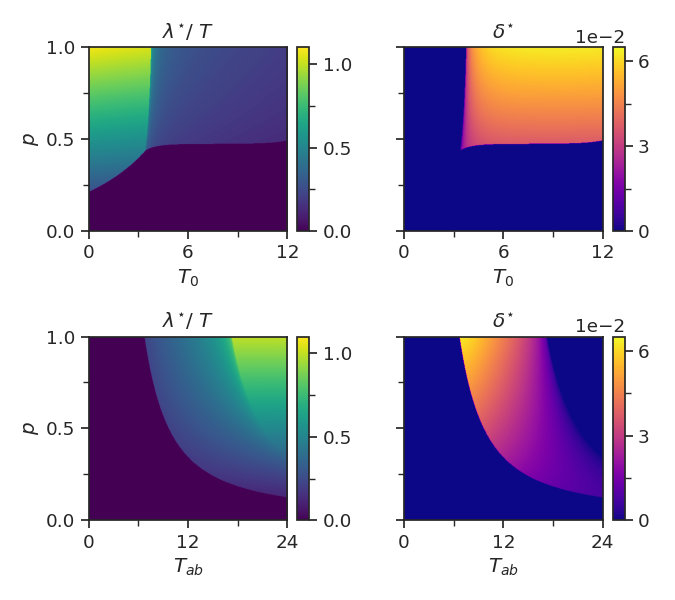
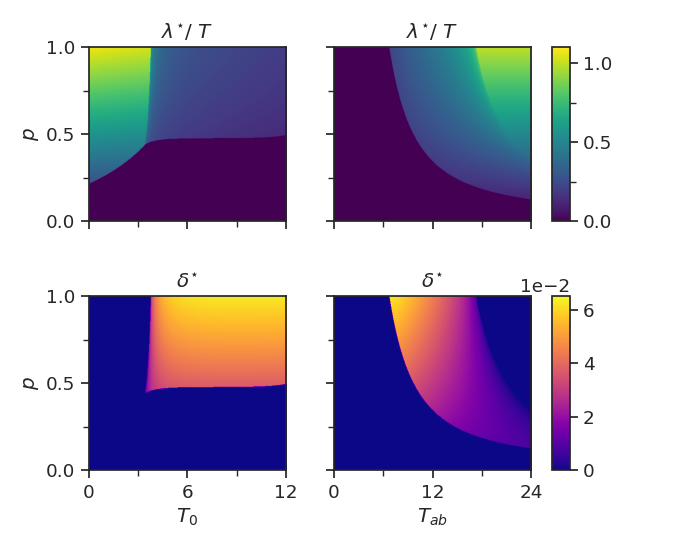
updated heatmaps

diff --git a/2-state_model/plot_heatmaps.py b/2-state_model/plot_heatmaps.py
@@ -3,15 +3,13 @@ import seaborn as sns
 import matplotlib as mpl
 import matplotlib.pyplot as plt
 
-#mpl.rcParams["font.family"] = "serif"
-mpl.rcParams["font.size"]   = "12"
 
-ab_res = 400
+ab_res = 100
 lag_cmap = mpl.colormaps.get_cmap('viridis')
 del_cmap = mpl.colormaps.get_cmap('plasma')
 
 # importing data 
-folder = 'high_resolution'
+folder = 'test'
 #lag_Tab = np.loadtxt(f'data/{folder}/competition_lag-T05.txt')
 #del_Tab = np.loadtxt(f'data/{folder}/competition_delta-T05.txt')
 lag_Tab = np.loadtxt(f'data/{folder}/optimal_lag-T05.txt')
@@ -26,52 +24,46 @@ T0_arr  = np.linspace(0, 12, ab_res)
 T_Tab = 5  + np.outer(np.ones_like(Tab_arr), Tab_arr)
 T_T0  = 10 + np.outer(np.ones_like(T0_arr),  T0_arr)
 
-
 # setting up figure
 sns.set_theme(style='ticks', font_scale=1.2)
-fig, ax = plt.subplots(2, 2, figsize=(6.75, 6), sharey=True)
+fig, ax = plt.subplots(2, 2, figsize=(6.75, 5.5), sharey=True, sharex='col')
 
 # plotting lag
-ax[0,0].set(xlabel=r'$T_{0}$',  title=r"$\lambda^{\star} / ~T$", ylabel=r"$p$")
-ax[0,1].set(xlabel=r'$T_{0}$',  title=r"$\delta^{\star}$")
-ax[1,0].set(xlabel=r'$T_{ab}$', title=r"$\lambda^{\star} / ~T$", ylabel=r"$p$")
+ax[0,0].set(ylabel=r"$p$", title=r"$\lambda^{\star} / ~T$")
+ax[1,0].set(xlabel=r'$T_{0}$', ylabel=r"$p$",  title=r"$\delta^{\star}$")
+ax[0,1].set(title=r"$\lambda^{\star} / ~T$")
 ax[1,1].set(xlabel=r'$T_{ab}$', title=r"$\delta^{\star}$")
 
-im00 = ax[0,0].imshow(lag_T0 / T_T0,   cmap=lag_cmap, origin="lower", vmin=0, vmax=1.1,   aspect="auto", extent=[0, 12, 0, 1]) #, cmap=lag_cmap, vmin=0
-im01 = ax[0,1].imshow(del_T0,          cmap=del_cmap, origin="lower", vmin=0, vmax=0.065, aspect="auto", extent=[0, 12, 0, 1])#, cmap=del_cmap, vmin=0, vmax=0.075
-im10 = ax[1,0].imshow(lag_Tab / T_Tab, cmap=lag_cmap, origin="lower", vmin=0, vmax=1.1,   aspect="auto", extent=[0, 24, 0, 1]) #, cmap=lag_cmap,vmin=0
-im11 = ax[1,1].imshow(del_Tab,         cmap=del_cmap, origin="lower", vmin=0, vmax=0.065, aspect="auto", extent=[0, 24, 0, 1])#, cmap=del_cmap, vmin=0, vmax=0.075
-
-# Colorbars
-ims = [im00, im01, im10, im11]
-cbformat = mpl.ticker.ScalarFormatter(useMathText=False)
-cbformat.set_powerlimits((-2, 2))  # adjust the limits as needed
-
-for im, axes in zip(ims, ax.flatten()):
-    cbar = fig.colorbar(im, ax=axes, aspect=15, anchor=(-.1, 0.5))
-    cbar.formatter = cbformat
-    if im in [im00, im10]:
-        cbar.ax.yaxis.set_ticks([0,0.5, 1],   minor=False)
-        cbar.ax.yaxis.set_ticks([0.25, 0.75], minor=True)
-
-    if im in [im01, im11]:
-        cbar.ax.yaxis.set_ticks([0, 0.03, 0.06], minor=False)
-        cbar.ax.yaxis.set_ticks([0.015, 0.045],  minor=True)
-
+im00 = ax[0,0].imshow(lag_T0,   cmap=lag_cmap, origin="lower", vmin=0, vmax=1.1,   aspect="auto", extent=[0, 12, 0, 1]) 
+im10 = ax[1,0].imshow(del_T0,          cmap=del_cmap, origin="lower", vmin=0, vmax=0.065, aspect="auto", extent=[0, 12, 0, 1])
+im01 = ax[0,1].imshow(lag_Tab, cmap=lag_cmap, origin="lower", vmin=0, vmax=1.1,   aspect="auto", extent=[0, 24, 0, 1])
+im11 = ax[1,1].imshow(del_Tab,         cmap=del_cmap, origin="lower", vmin=0, vmax=0.065, aspect="auto", extent=[0, 24, 0, 1])
 
 # Ticks
 for j in range(2):
-    ax[0,j].xaxis.set_ticks([0, 6, 12],  minor=False)
-    ax[0,j].xaxis.set_ticks([3, 9], minor=True)
+    ax[j,0].xaxis.set_ticks([0, 6, 12],  minor=False)
+    ax[j,0].xaxis.set_ticks([3, 9], minor=True)
 
-    ax[1,j].xaxis.set_ticks([0, 12, 24],  minor=False)
-    ax[1,j].xaxis.set_ticks([6, 18], minor=True)
+    ax[j,1].xaxis.set_ticks([0, 12, 24],  minor=False)
+    ax[j,1].xaxis.set_ticks([6, 18], minor=True)
 
 plt.gca().yaxis.set_ticks([0, 0.5, 1],  minor=False)
 plt.gca().yaxis.set_ticks([0.25, 0.75], minor=True)
 
 
 # saving
-fig.tight_layout(w_pad=2)
-fig.savefig(f"figs/2state_heatmap.png") #, dpi=100)
+fig.tight_layout(w_pad=2, h_pad=2)
+
+# Colorbars
+cbformat = mpl.ticker.ScalarFormatter(useMathText=False)
+cbformat.set_powerlimits((0, 0))  # adjust the limits as needed
+
+cbar0 = fig.colorbar(im01, ax=ax[0,:], aspect=10, anchor=(-.1, 0.5))
+cbar1 = fig.colorbar(im11, ax=ax[1,:], aspect=10, anchor=(-.1, 0.5))
+
+cbar0.ax.yaxis.set_ticks([0,0.5, 1],   minor=False)
+cbar0.ax.yaxis.set_ticks([0.25, 0.75], minor=True)
+cbar1.formatter = cbformat
+
+fig.savefig(f"figs/2state_heatmap_{folder}.png") #, dpi=100)
 

diff --git a/2-state_model/main_competition.py b/2-state_model/main_competition.py
@@ -29,8 +29,8 @@ repetitions = 1                        # number of repetitions for ensemble aver
 ## Antibiotic parameters ##
 ###########################
 # for chosing which time parameter to keep constant.
-ic = constant_index['T0']                       # 'T0' or 'Tab'
-T_const = 5                                     # value of the constant parameter
+ic = constant_index['Tab']                       # 'T0' or 'Tab'
+T_const = 10                                     # value of the constant parameter
 
 # defining parameter arrays
 T_max = [12, 24]                                # upper bounds on meningful values for T0 and Tab
@@ -73,9 +73,9 @@ if __name__ == '__main__':
     S_frac, lag_opt, del_opt = run_competition_in_parallel(bac_args, ab_args, sim_args)
 
 # saving
-np.savetxt(f"data/{folder}/competition_Sfrac-{T_labels[ic]}{T_const}.txt", S_frac)
-np.savetxt(f"data/{folder}/competition_lag-{T_labels[ic]}{T_const}.txt", lag_opt)
-np.savetxt(f"data/{folder}/competition_delta-{T_labels[ic]}{T_const}.txt", del_opt)
+np.savetxt(f"data/{folder}/optimal_Sfrac-{T_labels[ic]}{T_const}.txt", S_frac)
+np.savetxt(f"data/{folder}/optimal_lag-{T_labels[ic]}{T_const}.txt", lag_opt)
+np.savetxt(f"data/{folder}/optimal_delta-{T_labels[ic]}{T_const}.txt", del_opt)
 
 toc = time.time()
 print(f'\nTime: {(toc - tic) / 3600}h\n')

diff --git a/2-state_model/src/optimal_from_file.py b/2-state_model/src/optimal_from_file.py
@@ -6,12 +6,15 @@ def optimal_parameters_from_data(bac_args, ab_args):
 
     lag, delta, a, b, ap, bp = bac_args
     p, T0, Tab = ab_args
-    ab_res = len(np.loadtxt(f"data/low_resolution/optimal_lag-T0{int(T0)}.txt"))
+    #ab_res = len(np.loadtxt(f"data/low_resolution/optimal_lag-T0{int(T0)}.txt"))
+    ab_res = len(np.loadtxt(f"data/low_resolution/optimal_lag-Tab{int(Tab)}.txt"))
     ip = int(p * (ab_res-1))
     it = int(Tab * (ab_res-1) / 24)
 
-    lag[0]   = np.loadtxt(f"data/low_resolution/optimal_lag-T0{int(T0)}.txt")[ip, it]
-    delta[0] = np.loadtxt(f"data/low_resolution/optimal_delta-T0{int(T0)}.txt")[ip, it]
+    # lag[0]   = np.loadtxt(f"data/low_resolution/optimal_lag-T0{int(T0)}.txt")[ip, it]
+    # delta[0] = np.loadtxt(f"data/low_resolution/optimal_delta-T0{int(T0)}.txt")[ip, it]
+    lag[0]   = np.loadtxt(f"data/low_resolution/optimal_lag-Tab{int(Tab)}.txt")[ip, it]
+    delta[0] = np.loadtxt(f"data/low_resolution/optimal_delta-Tab{int(Tab)}.txt")[ip, it]
 
     # Transforming to a-b scheme
     a[0],  b[0]  = compute_a_and_b(lag[0],   delta[0])

diff --git a/3-state_model/plot_heatmaps.py b/3-state_model/plot_heatmaps.py
@@ -94,10 +94,6 @@ for im, axes in zip(ims, ax.flatten()):
         cbar.ax.yaxis.set_ticks([0,0.5, 1],   minor=False)
         cbar.ax.yaxis.set_ticks([0.25, 0.75], minor=True)
 
-    if im in [im02, im12]:
-        cbar.ax.yaxis.set_ticks([0, 0.03, 0.06], minor=False)
-        cbar.ax.yaxis.set_ticks([0.015, 0.045],  minor=True)
-
     i += 1
 
 fig.savefig(f"figs/3state_heatmaps.png", dpi=100)
